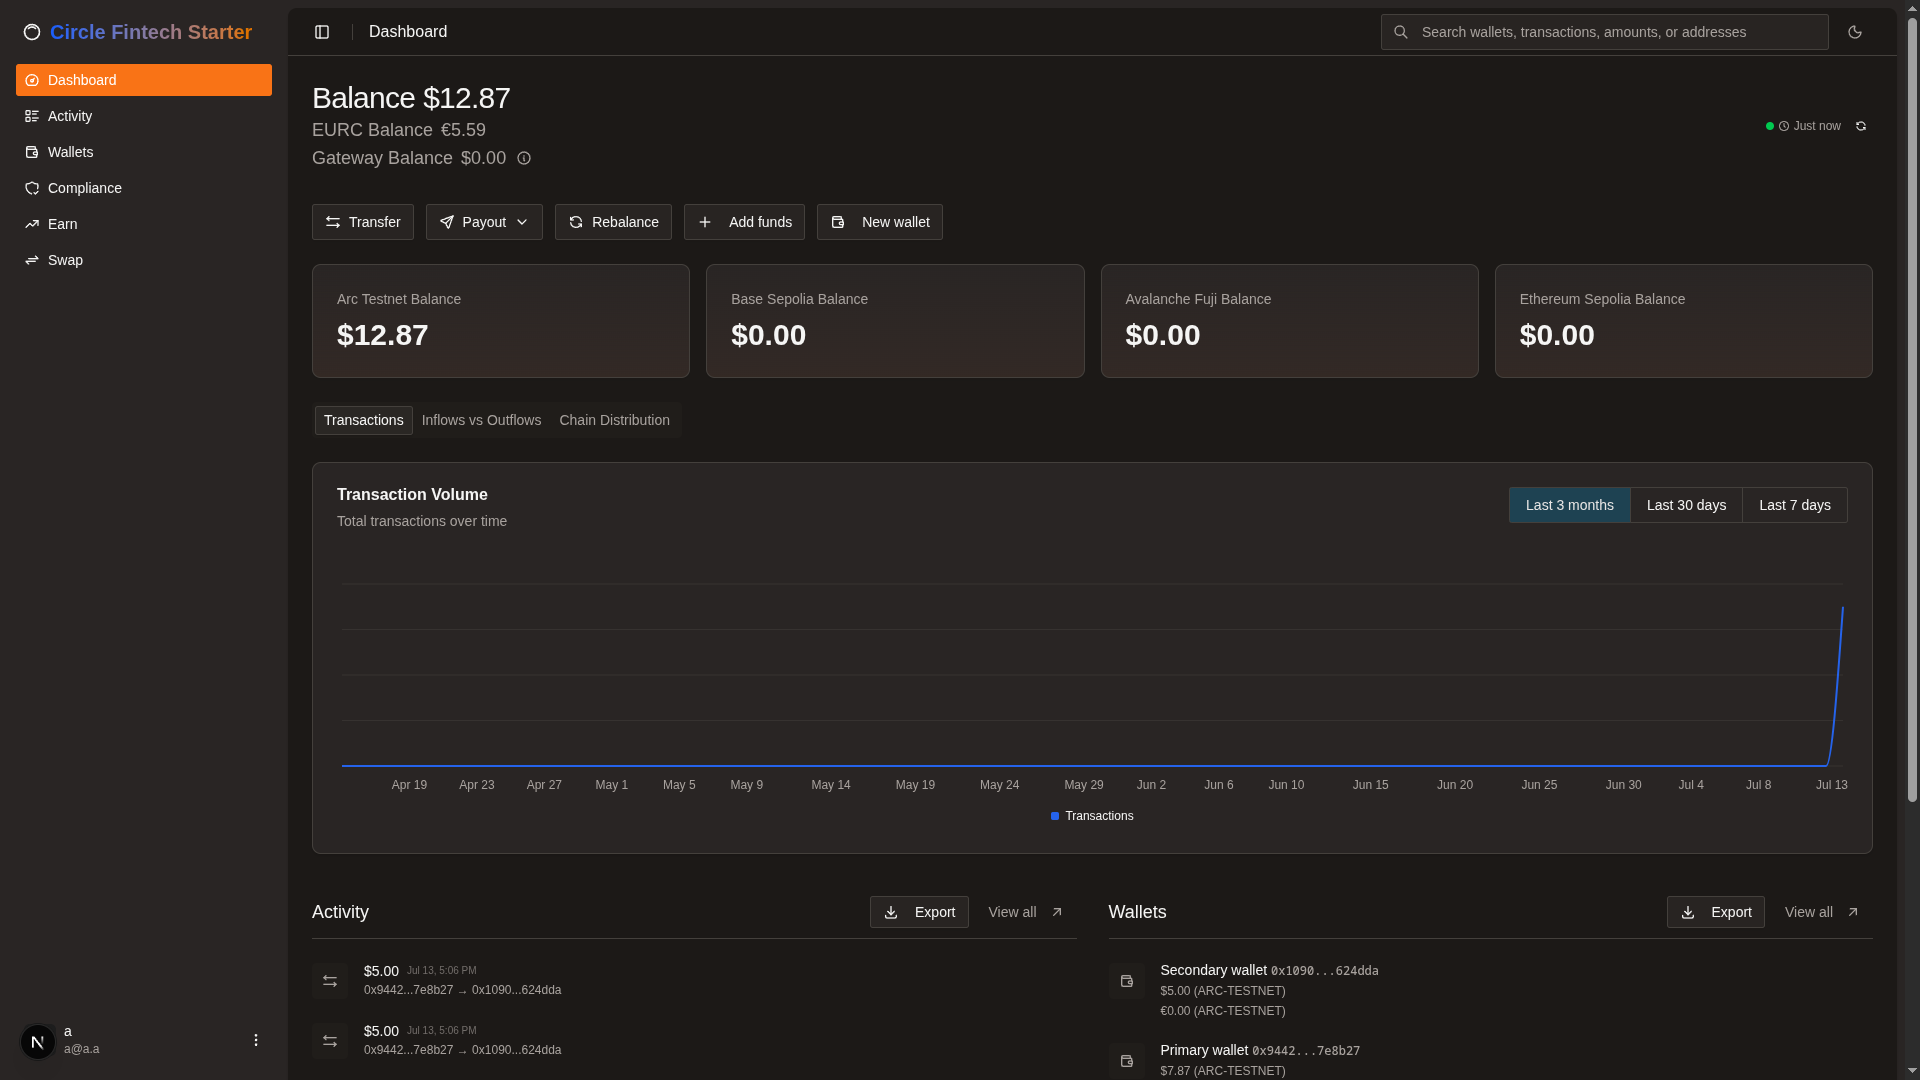
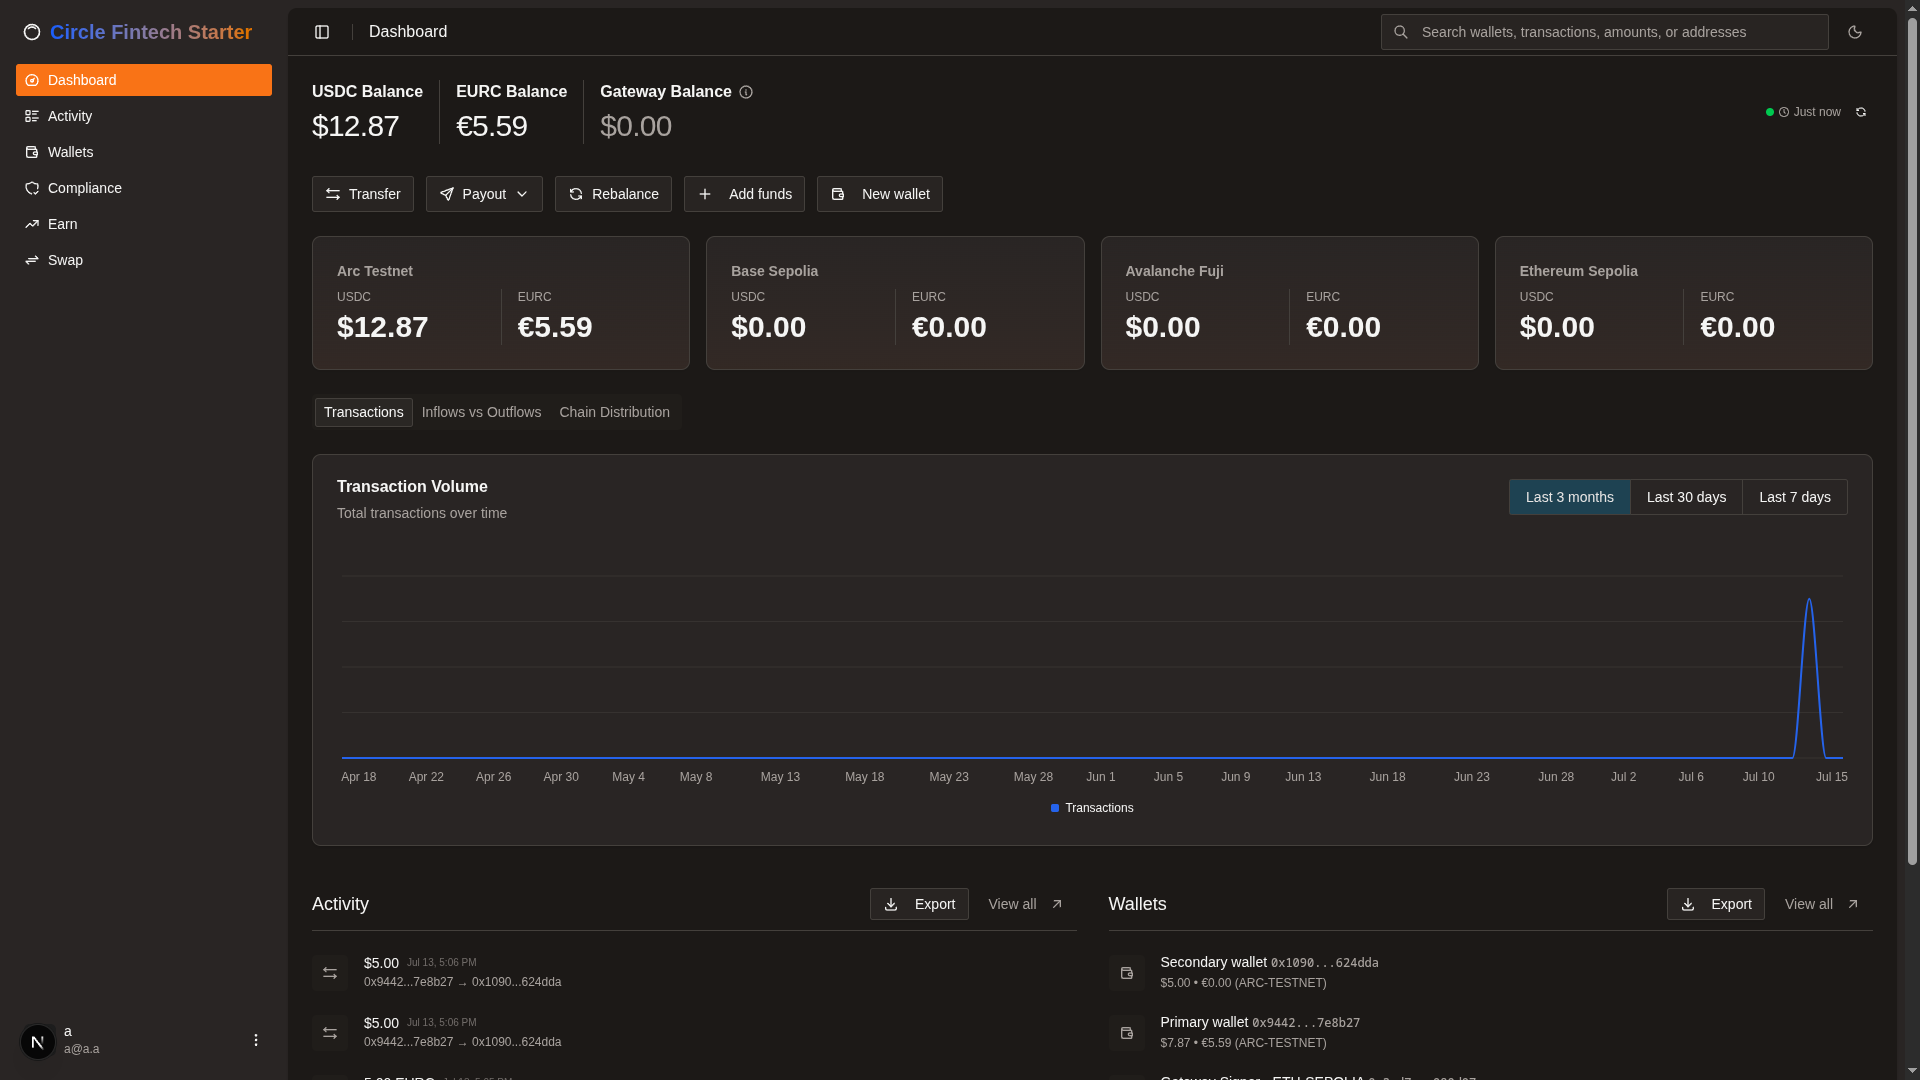
Refine EURC/USDC balance layout

diff --git a/app/dashboard/page.tsx b/app/dashboard/page.tsx
@@ -154,44 +154,62 @@ export default function Page() {
       {/* Header */}
       <div className="flex flex-col mb-4">
         <div className="flex items-center justify-between mb-4">
-          <div>
-            <h3 className="scroll-m-20 text-3xl tracking-tight flex items-center">
-              <span className="mr-2">USDC Balance</span>
-              {!isLoadingWallet ? (
-                `$${walletTotal.toLocaleString('en-US', { minimumFractionDigits: 2, maximumFractionDigits: 2 })}`
-              ) : (
-                <Skeleton className="h-6 w-20" />
-              )}
-            </h3>
-            <div>
-               <h3 className="scroll-m-20 text-3xl tracking-tight flex items-center">
-              <span className="mr-2">EURC Balance</span>
-              {!isLoadingEurcWallet ? (
-                <span>
-                  €{eurcWalletTotal.toLocaleString('en-US', { minimumFractionDigits: 2, maximumFractionDigits: 2 })}
-                </span>
-              ) : (
-                <Skeleton className="h-4 w-16" />
-              )}
+          <div className="flex items-stretch gap-4">
+            <div className="flex flex-col gap-1">
+              <span className="font-bold">USDC Balance</span>
+              <h3 className="scroll-m-20 text-3xl tracking-tight">
+                {!isLoadingWallet ? (
+                  `$${walletTotal.toLocaleString('en-US', { minimumFractionDigits: 2, maximumFractionDigits: 2 })}`
+                ) : (
+                  <Skeleton className="h-6 w-20" />
+                )}
               </h3>
             </div>
-            <div className="text-muted-foreground flex items-center gap-2 text-lg">
-              <span>Gateway Balance</span>
-              {!isLoadingGateway ? (
-                <>
+
+            <Separator
+              orientation="vertical"
+              className="data-[orientation=vertical]:h-auto"
+            />
+
+            <div className="flex flex-col gap-1">
+              <span className="font-bold">EURC Balance</span>
+              <h3 className="scroll-m-20 text-3xl tracking-tight">
+                {!isLoadingEurcWallet ? (
                   <span>
-                    ${gatewayTotal.toLocaleString('en-US', { minimumFractionDigits: 2, maximumFractionDigits: 2 })}
+                    €{eurcWalletTotal.toLocaleString('en-US', { minimumFractionDigits: 2, maximumFractionDigits: 2 })}
                   </span>
-                  {gatewayPending > 0 ? (
-                    <span className="text-amber-600 dark:text-amber-400 text-sm">
-                      (+${gatewayPending.toLocaleString('en-US', { minimumFractionDigits: 2, maximumFractionDigits: 2 })} pending)
+                ) : (
+                  <Skeleton className="h-6 w-20" />
+                )}
+              </h3>
+            </div>
+
+            <Separator
+              orientation="vertical"
+              className="data-[orientation=vertical]:h-auto"
+            />
+
+            <div className="flex flex-col gap-1">
+              <span className="font-bold flex items-center gap-1">
+                Gateway Balance
+                <GatewayBalanceDialog />
+              </span>
+              <div className="text-muted-foreground flex items-center gap-2 text-3xl tracking-tight">
+                {!isLoadingGateway ? (
+                  <>
+                    <span>
+                      ${gatewayTotal.toLocaleString('en-US', { minimumFractionDigits: 2, maximumFractionDigits: 2 })}
                     </span>
-                  ) : null}
-                  <GatewayBalanceDialog />
-                </>
-              ) : (
-                <Skeleton className="h-4 w-11" />
-              )}
+                    {gatewayPending > 0 ? (
+                      <span className="text-amber-600 dark:text-amber-400 text-sm">
+                        (+${gatewayPending.toLocaleString('en-US', { minimumFractionDigits: 2, maximumFractionDigits: 2 })} pending)
+                      </span>
+                    ) : null}
+                  </>
+                ) : (
+                  <Skeleton className="h-6 w-20" />
+                )}
+              </div>
             </div>
           </div>
           <DataFreshnessIndicator
@@ -334,6 +352,17 @@ export default function Page() {
                 {localWallets.slice(0, 5).map((wallet) => {
                   const balance = walletBalances[wallet.circle_wallet_id]
                   const eurcBalance = eurcWalletBalances[wallet.circle_wallet_id]
+                  // Balance strings arrive as "$5.00 (ARC-TESTNET)". Strip the
+                  // trailing chain suffix so both amounts can share one line
+                  // with the chain shown only once at the end.
+                  const stripChain = (s?: string) =>
+                    s?.replace(/\s*\([^)]*\)\s*$/, "").trim() ?? ""
+                  const amounts = [stripChain(balance), stripChain(eurcBalance)]
+                    .filter(Boolean)
+                    .join(" • ")
+                  const chainSuffix = wallet.blockchain
+                    ? ` (${wallet.blockchain})`
+                    : ""
 
                   return (
                     <div key={wallet.id} className="flex items-start gap-4">
@@ -352,20 +381,15 @@ export default function Page() {
                             {shortenAddress(wallet.address)}
                           </a>
                         </p>
-                        {/* Display Skeleton if balance is undefined, otherwise display balance */}
-                        {balance !== undefined ? (
-                          <p className="text-muted-foreground text-xs">
-                            {balance}
-                          </p>
-                        ) : (
+                        {/* Skeleton until the USDC balance resolves, then show
+                            both amounts on one line followed by the chain. */}
+                        {balance === undefined ? (
                           <Skeleton className="h-3 w-10 rounded-sm mt-1" />
-                        )}
-                        {eurcBalance !== undefined ? (
-                          <p className="text-muted-foreground text-xs">
-                            {eurcBalance}
-                          </p>
                         ) : (
-                          <Skeleton className="h-3 w-10 rounded-sm mt-1" />
+                          <p className="text-muted-foreground text-xs">
+                            {amounts}
+                            {chainSuffix}
+                          </p>
                         )}
                       </div>
                     </div>

diff --git a/components/section-cards.tsx b/components/section-cards.tsx
@@ -24,15 +24,16 @@ import {
   CardHeader,
   CardTitle,
 } from "@/components/ui/card"
+import { Separator } from "@/components/ui/separator"
 import { Skeleton } from "@/components/ui/skeleton"
 import { useBalanceContext } from "@/lib/contexts/balance-context"
 
 // Configuration for the cards we want to display
 const CHAIN_CONFIG = [
-  { key: "arcTestnet", label: "Arc Testnet Balance" },
-  { key: "baseSepolia", label: "Base Sepolia Balance" },
-  { key: "avalancheFuji", label: "Avalanche Fuji Balance" },
-  { key: "ethSepolia", label: "Ethereum Sepolia Balance" },
+  { key: "arcTestnet", label: "Arc Testnet" },
+  { key: "baseSepolia", label: "Base Sepolia" },
+  { key: "avalancheFuji", label: "Avalanche Fuji" },
+  { key: "ethSepolia", label: "Ethereum Sepolia" },
 ] as const
 
 export function SectionCards() {
@@ -43,27 +44,43 @@ export function SectionCards() {
       {CHAIN_CONFIG.map((chain) => (
         <Card key={chain.key} className="@container/card">
           <CardHeader>
-            <CardDescription>{chain.label}</CardDescription>
-            <CardTitle className="text-2xl font-semibold tabular-nums @[250px]/card:text-3xl">
-              {isLoadingGateway ? (
-                <Skeleton className="h-8 w-24" />
-              ) : (
-                `$${(chainBalances[chain.key] || 0).toLocaleString("en-US", {
-                  minimumFractionDigits: 2,
-                  maximumFractionDigits: 2,
-                })}`
-              )}
-            </CardTitle>
-            <CardTitle className="text-2xl font-semibold tabular-nums @[250px]/card:text-3xl">
-              {isLoadingGateway ? (
-                <Skeleton className="h-8 w-24" />
-              ) : (
-                `€${(eurcChainBalances[chain.key] || 0).toLocaleString("en-US", {
-                  minimumFractionDigits: 2,
-                  maximumFractionDigits: 2,
-                })}`
-              )}
-            </CardTitle>
+            <CardDescription className="font-bold">{chain.label}</CardDescription>
+            <div className="flex items-stretch gap-4">
+              <div className="flex flex-1 flex-col gap-1">
+                <span className="text-muted-foreground text-xs font-medium">
+                  USDC
+                </span>
+                <CardTitle className="text-2xl font-semibold tabular-nums @[250px]/card:text-3xl">
+                  {isLoadingGateway ? (
+                    <Skeleton className="h-8 w-24" />
+                  ) : (
+                    `$${(chainBalances[chain.key] || 0).toLocaleString("en-US", {
+                      minimumFractionDigits: 2,
+                      maximumFractionDigits: 2,
+                    })}`
+                  )}
+                </CardTitle>
+              </div>
+              <Separator
+                orientation="vertical"
+                className="data-[orientation=vertical]:h-auto"
+              />
+              <div className="flex flex-1 flex-col gap-1">
+                <span className="text-muted-foreground text-xs font-medium">
+                  EURC
+                </span>
+                <CardTitle className="text-2xl font-semibold tabular-nums @[250px]/card:text-3xl">
+                  {isLoadingGateway ? (
+                    <Skeleton className="h-8 w-24" />
+                  ) : (
+                    `€${(eurcChainBalances[chain.key] || 0).toLocaleString("en-US", {
+                      minimumFractionDigits: 2,
+                      maximumFractionDigits: 2,
+                    })}`
+                  )}
+                </CardTitle>
+              </div>
+            </div>
           </CardHeader>
         </Card>
       ))}

diff --git a/app/api/wallet/balance/route.ts b/app/api/wallet/balance/route.ts
@@ -130,6 +130,14 @@ export const POST = withAuth(async (req, { user, supabase }) => {
 
     await Promise.all(
       gatewayWalletIds.map(async (id: string) => {
+        // Gateway signer wallets only custody USDC on-chain — they never hold
+        // EURC. Emit an empty marker for the EURC pass so the client doesn't
+        // render a duplicate USDC-denominated line under the wallet.
+        if (token === "EURC") {
+          balancesMap[id] = "";
+          return;
+        }
+
         const blockchain = chainMap.get(id) || "";
         const address = addressMap.get(id);
         const chain = blockchainToChain[blockchain];
